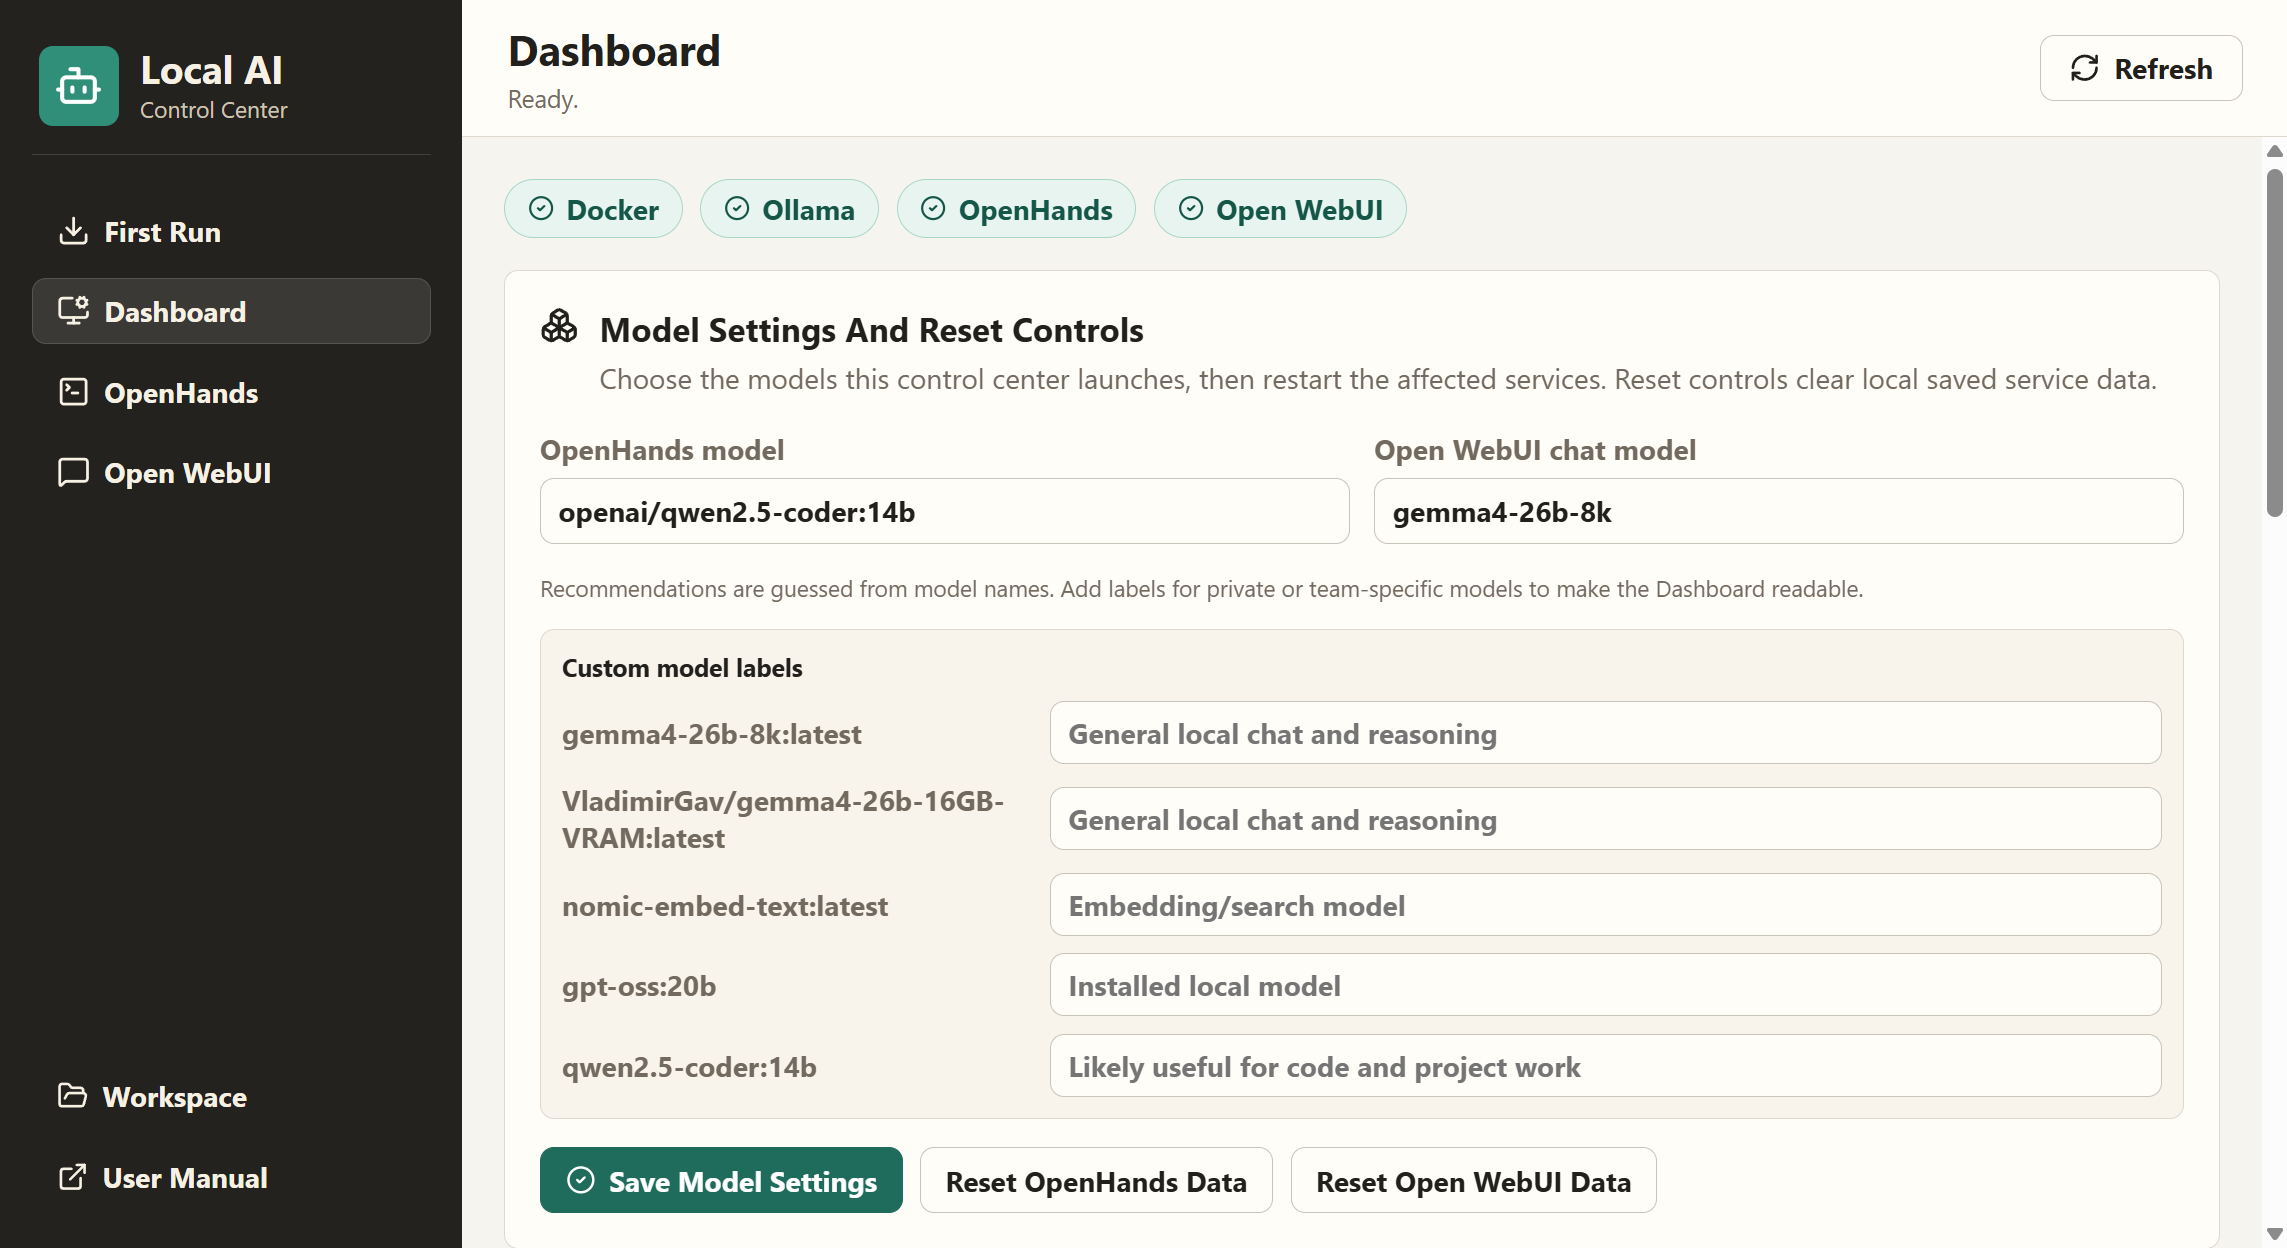
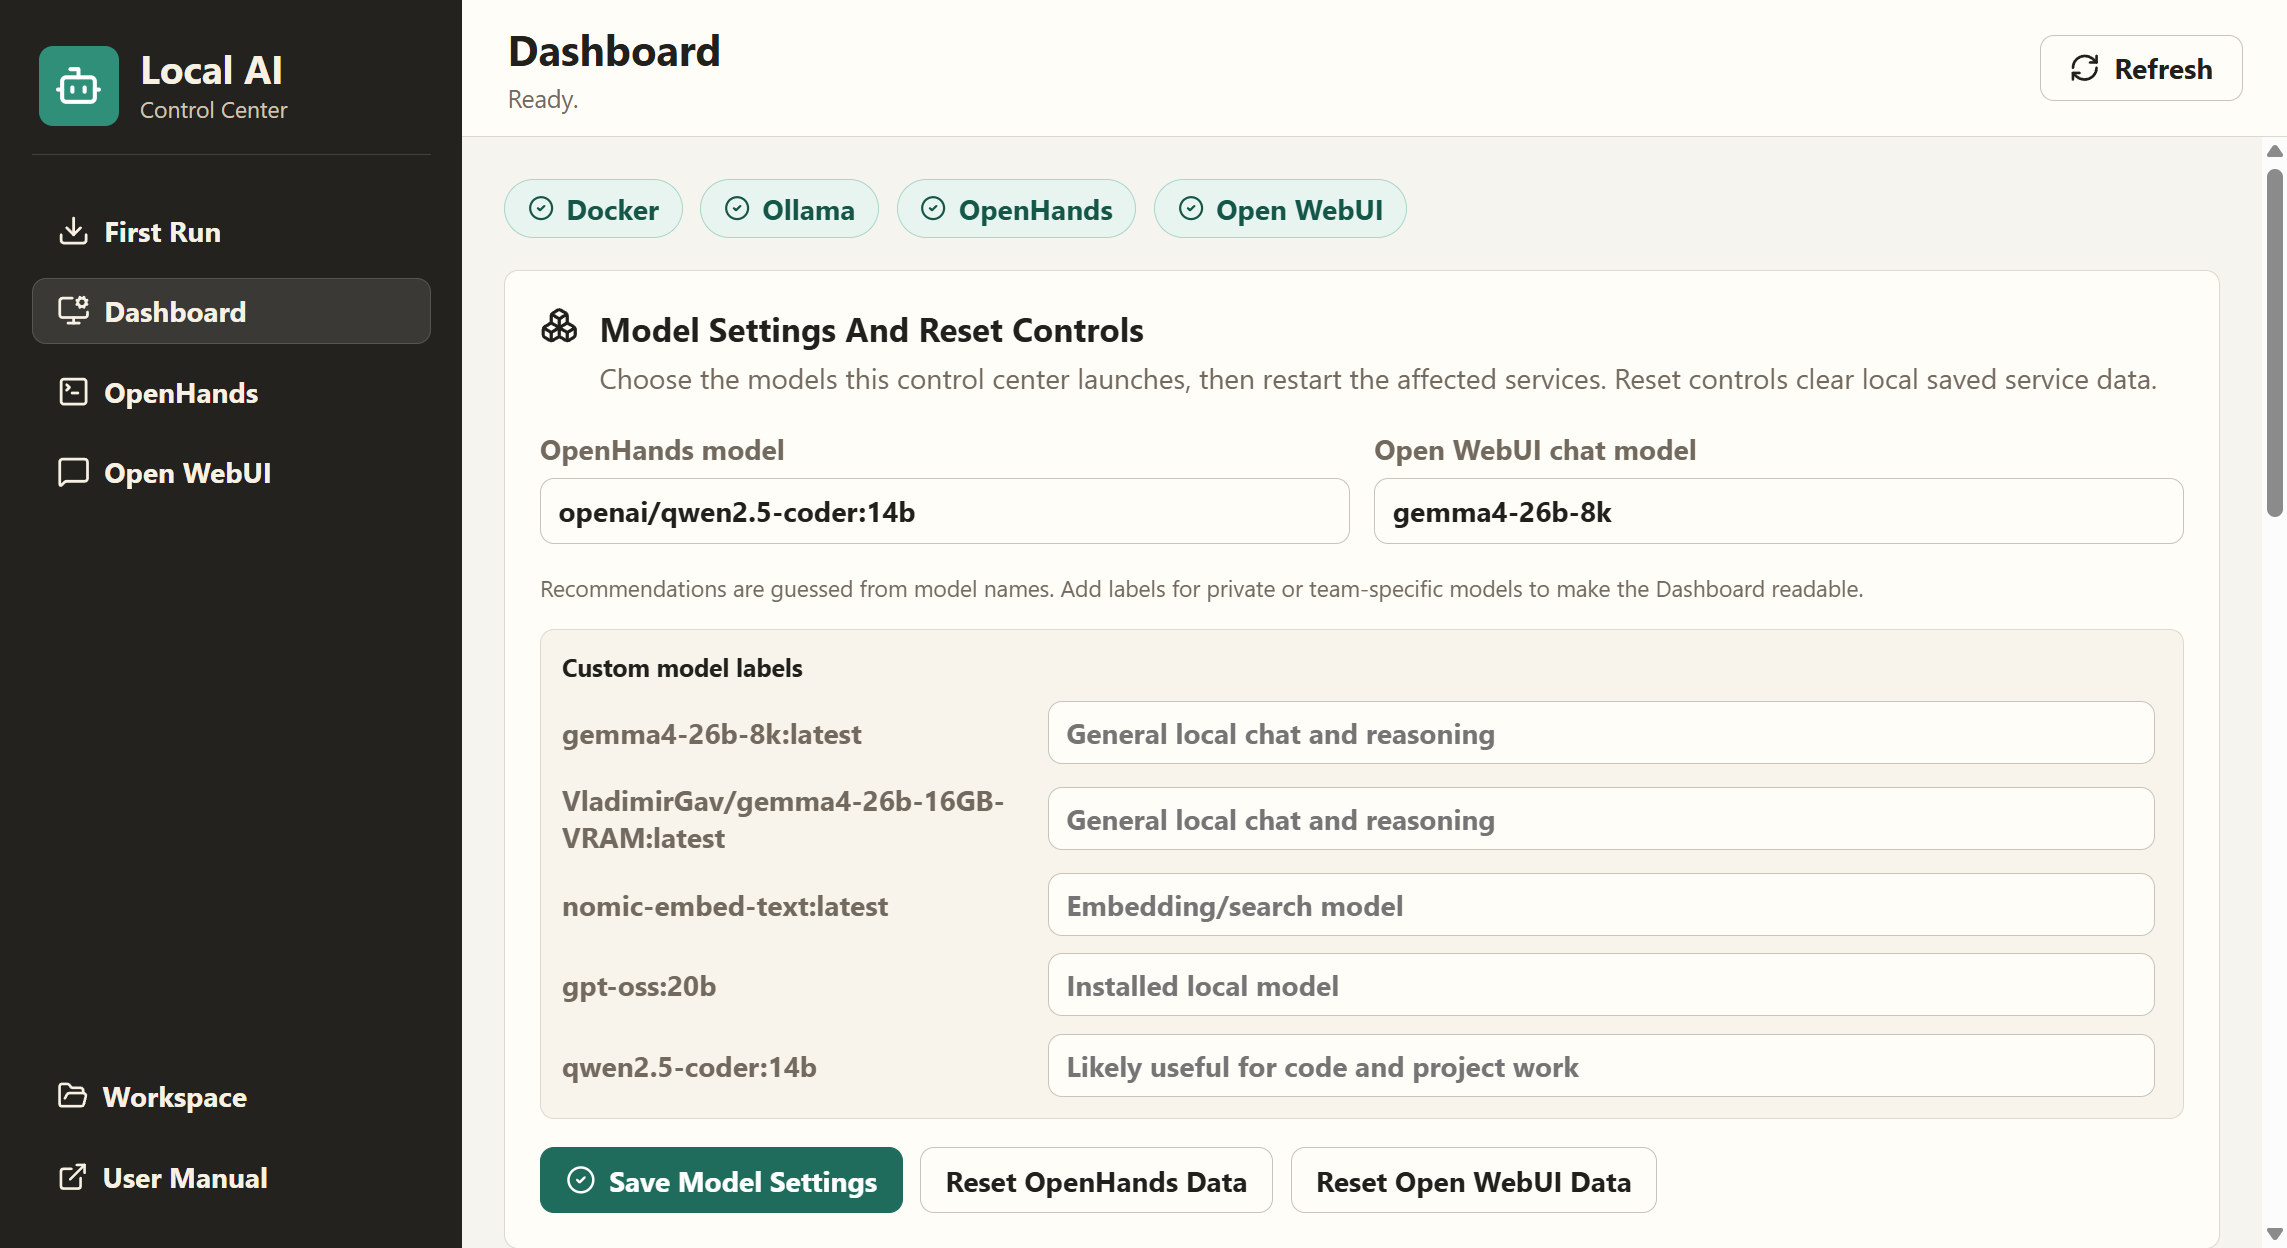
Close v0.5 review follow-ups

diff --git a/electron/main.ts b/electron/main.ts
@@ -2,6 +2,7 @@ import { app, BrowserWindow, ipcMain, shell } from "electron";
 import path from "node:path";
 import { existsSync } from "node:fs";
 import fs from "node:fs/promises";
+import { defaultConfig, mergeConfigUpdate, parseConfig, type LocalAIConfig } from "./config-logic";
 import {
   occupiedPortResult,
   portCheckFailure,
@@ -45,16 +46,8 @@ const workspaceDir = path.join(appRoot, "agent-workspace");
 const openHandsUrl = "http://localhost:3000";
 const openWebUiUrl = "http://localhost:8080";
 const ollamaApiUrl = "http://127.0.0.1:11434";
-const defaultConfig = {
-  openHandsModel: "openai/qwen2.5-coder:14b",
-  openWebUiChatModel: "gemma4-26b-8k",
-  openWebUiImage: "ghcr.io/open-webui/open-webui:v0.9.5",
-  modelLabels: {} as Record<string, string>
-};
 const openHandsImage = "docker.openhands.dev/openhands/openhands:1.7";
 const setupStateVersion = 1;
-
-type LocalAIConfig = typeof defaultConfig;
 
 function configPath() {
   return path.join(app.getPath("userData"), "config.json");
@@ -62,19 +55,7 @@ function configPath() {
 
 async function readConfig(): Promise<LocalAIConfig> {
   try {
-    const parsed = JSON.parse(await fs.readFile(configPath(), "utf8")) as Partial<LocalAIConfig>;
-    const stringConfig = Object.fromEntries(
-      Object.entries(parsed).filter((entry): entry is [string, string] => typeof entry[1] === "string" && entry[1].trim().length > 0)
-    );
-    const modelLabels =
-      parsed.modelLabels && typeof parsed.modelLabels === "object"
-        ? Object.fromEntries(Object.entries(parsed.modelLabels).filter((entry): entry is [string, string] => typeof entry[1] === "string" && entry[1].trim().length > 0))
-        : {};
-    return {
-      ...defaultConfig,
-      ...stringConfig,
-      modelLabels
-    };
+    return parseConfig(await fs.readFile(configPath(), "utf8"));
   } catch {
     return defaultConfig;
   }
@@ -82,18 +63,7 @@ async function readConfig(): Promise<LocalAIConfig> {
 
 async function writeConfig(update: Partial<LocalAIConfig>): Promise<LocalAIConfig> {
   const current = await readConfig();
-  const stringConfig = Object.fromEntries(
-    Object.entries(update).filter((entry): entry is [string, string] => typeof entry[1] === "string" && entry[1].trim().length > 0)
-  );
-  const modelLabels =
-    update.modelLabels && typeof update.modelLabels === "object"
-      ? Object.fromEntries(Object.entries(update.modelLabels).filter((entry): entry is [string, string] => typeof entry[1] === "string" && entry[1].trim().length > 0))
-      : current.modelLabels;
-  const next = {
-    ...current,
-    ...stringConfig,
-    modelLabels
-  };
+  const next = mergeConfigUpdate(current, update);
   await fs.mkdir(path.dirname(configPath()), { recursive: true });
   await fs.writeFile(configPath(), JSON.stringify(next, null, 2), "utf8");
   return next;

diff --git a/src/App.tsx b/src/App.tsx
@@ -172,6 +172,7 @@ export function App() {
   const [configDraft, setConfigDraft] = useState<LocalAIConfig>(fallbackStatus.config);
   const [restartRequired, setRestartRequired] = useState({ openhands: false, openwebui: false });
   const [pendingReset, setPendingReset] = useState<ResetTarget | null>(null);
+  const [modelLabelsExpanded, setModelLabelsExpanded] = useState(false);
   const refreshingRef = useRef(false);
   const userSelectedViewRef = useRef(false);
 
@@ -367,6 +368,7 @@ export function App() {
   const workInProgress = Boolean(busy && busy !== "refresh");
   const servicesReady = openHandsReady && openWebUiReady;
   const setupComplete = setup.ready && servicesReady;
+  const labelEditorExpanded = models.length <= 6 || modelLabelsExpanded;
 
   return (
     <div className="app-shell">
@@ -646,18 +648,29 @@ export function App() {
               </p>
               {models.length > 0 && (
                 <div className="model-label-editor">
-                  <h4>Custom model labels</h4>
-                  {models.map((model) => (
-                    <label key={model}>
-                      <span>{model}</span>
-                      <input
-                        aria-label={`Label for ${model}`}
-                        value={configDraft.modelLabels[model] ?? ""}
-                        placeholder={describeModel(model)}
-                        onChange={(event) => updateModelLabel(model, event.target.value)}
-                      />
-                    </label>
-                  ))}
+                  <div className="model-label-header">
+                    <h4>Custom model labels</h4>
+                    {models.length > 6 && (
+                      <button type="button" onClick={() => setModelLabelsExpanded((current) => !current)}>
+                        {labelEditorExpanded ? "Hide labels" : `Show labels (${models.length})`}
+                      </button>
+                    )}
+                  </div>
+                  {labelEditorExpanded && (
+                    <div className="model-label-scroll">
+                      {models.map((model) => (
+                        <label key={model}>
+                          <span>{model}</span>
+                          <input
+                            aria-label={`Label for ${model}`}
+                            value={configDraft.modelLabels[model] ?? ""}
+                            placeholder={describeModel(model)}
+                            onChange={(event) => updateModelLabel(model, event.target.value)}
+                          />
+                        </label>
+                      ))}
+                    </div>
+                  )}
                 </div>
               )}
               <div className="button-row">

diff --git a/tests/config-logic.test.ts b/tests/config-logic.test.ts
@@ -1,0 +1,43 @@
+import { describe, expect, it } from "vitest";
+import { defaultConfig, mergeConfigUpdate, parseConfig } from "../electron/config-logic";
+
+describe("persisted app config logic", () => {
+  it("round-trips saved model labels through config parsing", () => {
+    const parsed = parseConfig(
+      JSON.stringify({
+        openHandsModel: "code-model:latest",
+        modelLabels: {
+          "private-model:latest": "Internal research assistant"
+        }
+      })
+    );
+
+    expect(parsed.openHandsModel).toBe("code-model:latest");
+    expect(parsed.openWebUiChatModel).toBe(defaultConfig.openWebUiChatModel);
+    expect(parsed.modelLabels).toEqual({ "private-model:latest": "Internal research assistant" });
+  });
+
+  it("strips blank label values when writing a label update", () => {
+    const next = mergeConfigUpdate(defaultConfig, {
+      modelLabels: {
+        "keep-me:latest": "Useful helper",
+        "clear-me:latest": ""
+      }
+    });
+
+    expect(next.modelLabels).toEqual({ "keep-me:latest": "Useful helper" });
+  });
+
+  it("preserves existing labels when a model-only update is written", () => {
+    const current = {
+      ...defaultConfig,
+      modelLabels: {
+        "private-model:latest": "Internal research assistant"
+      }
+    };
+    const next = mergeConfigUpdate(current, { openWebUiChatModel: "new-chat:latest" });
+
+    expect(next.openWebUiChatModel).toBe("new-chat:latest");
+    expect(next.modelLabels).toEqual(current.modelLabels);
+  });
+});

diff --git a/landing/index.html b/landing/index.html
@@ -41,8 +41,8 @@
             models without managing a pile of terminal commands.
           </p>
           <div class="hero-actions">
-            <a class="button primary" href="https://github.com/scottconverse/local-ai-control-center/releases/tag/v0.5.0">
-              Download v0.5.0
+            <a class="button primary" href="https://github.com/scottconverse/local-ai-control-center/releases/tag/v0.5.1">
+              Download v0.5.1
             </a>
             <a class="button secondary" href="https://github.com/scottconverse/local-ai-control-center">
               View GitHub Repo
@@ -162,7 +162,7 @@
           </p>
         </div>
         <div class="cta-actions">
-          <a class="button primary" href="https://github.com/scottconverse/local-ai-control-center/releases/tag/v0.5.0">
+          <a class="button primary" href="https://github.com/scottconverse/local-ai-control-center/releases/tag/v0.5.1">
             Get the release
           </a>
           <a class="button secondary" href="https://github.com/scottconverse/local-ai-control-center">
@@ -174,7 +174,7 @@
 
     <footer>
       <span>Local AI Control Center</span>
-      <span>Windows-only v0.5.0 - Local services bind to 127.0.0.1</span>
+      <span>Windows-only v0.5.1 - Local services bind to 127.0.0.1</span>
     </footer>
   </body>
 </html>

diff --git a/electron/config-logic.ts b/electron/config-logic.ts
@@ -1,0 +1,43 @@
+export type LocalAIConfig = {
+  openHandsModel: string;
+  openWebUiChatModel: string;
+  openWebUiImage: string;
+  modelLabels: Record<string, string>;
+};
+
+export const defaultConfig: LocalAIConfig = {
+  openHandsModel: "openai/qwen2.5-coder:14b",
+  openWebUiChatModel: "gemma4-26b-8k",
+  openWebUiImage: "ghcr.io/open-webui/open-webui:v0.9.5",
+  modelLabels: {}
+};
+
+function cleanStringEntries(value: unknown) {
+  if (!value || typeof value !== "object") {
+    return {};
+  }
+  return Object.fromEntries(
+    Object.entries(value).filter((entry): entry is [string, string] => typeof entry[1] === "string" && entry[1].trim().length > 0)
+  );
+}
+
+export function parseConfig(raw: string, fallback: LocalAIConfig = defaultConfig): LocalAIConfig {
+  try {
+    const parsed = JSON.parse(raw) as Partial<LocalAIConfig>;
+    return {
+      ...fallback,
+      ...cleanStringEntries(parsed),
+      modelLabels: cleanStringEntries(parsed.modelLabels)
+    };
+  } catch {
+    return fallback;
+  }
+}
+
+export function mergeConfigUpdate(current: LocalAIConfig, update: Partial<LocalAIConfig>): LocalAIConfig {
+  return {
+    ...current,
+    ...cleanStringEntries(update),
+    modelLabels: update.modelLabels ? cleanStringEntries(update.modelLabels) : current.modelLabels
+  };
+}

diff --git a/tests/status.test.ts b/tests/status.test.ts
@@ -39,7 +39,7 @@ describe("service launcher scripts", () => {
 
   it("tracks the current release version", () => {
     const packageJson = JSON.parse(read("package.json")) as { version: string };
-    expect(packageJson.version).toBe("0.5.0");
+    expect(packageJson.version).toBe("0.5.1");
   });
 
   it("uses relative production assets so the packaged app is not blank", () => {
@@ -262,6 +262,8 @@ describe("service launcher scripts", () => {
     expect(app).toContain("Model Settings And Reset Controls");
     expect(app).toContain("Custom model labels");
     expect(app).toContain("Recommendations are guessed from model names");
+    expect(app).toContain("Show labels");
+    expect(app).toContain("model-label-scroll");
     expect(preload).toContain("updateConfig");
     expect(preload).toContain("resetServiceData");
     expect(openHandsScript).toContain("$openHandsModel");
@@ -282,6 +284,7 @@ describe("service launcher scripts", () => {
     expect(landing).not.toContain("Next hardening pass");
     expect(readme).toContain("Editable labels and model-name recommendations");
     expect(manual).toContain("label installed local models");
+    expect(manual).toContain("Custom model labels disappeared");
     expect(developer).toContain("npm run screenshots:packaged");
   });
 

diff --git a/tests/app.test.tsx b/tests/app.test.tsx
@@ -192,6 +192,30 @@ describe("App first-run behavior", () => {
     root.unmount();
   });
 
+  it("collapses the custom label editor for large model libraries", async () => {
+    const manyModels = Array.from({ length: 8 }, (_, index) => `private-model-${index}:latest`);
+    window.localAI.getStatus = vi.fn().mockResolvedValue({
+      ...readyStatus,
+      ollama: { ...readyStatus.ollama, modelNames: manyModels },
+      config: { ...readyStatus.config, modelLabels: {} }
+    });
+    const { container, root } = renderApp();
+    await mount(root);
+
+    await act(async () => {
+      clickButton(container, "Dashboard");
+    });
+    expect(container.textContent).toContain("Show labels (8)");
+    expect(container.querySelector('input[aria-label="Label for private-model-0:latest"]')).toBeNull();
+
+    await act(async () => {
+      clickButton(container, "Show labels");
+    });
+    expect(container.querySelector('input[aria-label="Label for private-model-0:latest"]')).toBeTruthy();
+
+    root.unmount();
+  });
+
   it("does not reset service data when the in-app confirmation is cancelled", async () => {
     const { container, root } = renderApp();
     await mount(root);

diff --git a/src/styles.css b/src/styles.css
@@ -599,12 +599,31 @@ dd {
   border: 1px solid #ded8ce;
 }
 
-.model-label-editor h4 {
+.model-label-header {
+  display: flex;
+  align-items: center;
+  justify-content: space-between;
+  gap: 12px;
+}
+
+.model-label-header h4 {
   margin: 0;
   font-size: 14px;
 }
 
-.model-label-editor label {
+.model-label-header button {
+  min-height: 32px;
+}
+
+.model-label-scroll {
+  display: grid;
+  gap: 10px;
+  max-height: 280px;
+  overflow: auto;
+  padding-right: 4px;
+}
+
+.model-label-scroll label {
   display: grid;
   grid-template-columns: minmax(170px, 0.42fr) minmax(0, 1fr);
   gap: 12px;
@@ -613,7 +632,7 @@ dd {
   font-weight: 750;
 }
 
-.model-label-editor input {
+.model-label-scroll input {
   min-height: 36px;
   border: 1px solid #c9c4ba;
   border-radius: 8px;

diff --git a/USER_MANUAL.md b/USER_MANUAL.md
@@ -251,6 +251,7 @@ Use it when:
 | Ollama is not reachable | Start Ollama and confirm it is listening on port `11434` |
 | App cannot find its scripts after a non-standard install | Set `LOCAL_AI_APP_ROOT` to the app root directory and restart the app |
 | App closed during a model or image pull | Reopen the app and run the pull step again to confirm whether the background download completed |
+| Custom model labels disappeared | Labels are stored in the app's Windows user data folder. They are not part of the portable `.exe` and will not transfer to a new machine or Windows profile automatically |
 | OpenHands says it is starting | Wait a minute after first launch; Docker may still be starting the container |
 | Open WebUI says it is starting | Wait for the container health check to finish |
 | Models feel slow | Check `nvidia-smi` and stop unused Ollama models |

diff --git a/CHANGELOG.md b/CHANGELOG.md
@@ -1,5 +1,11 @@
 # Changelog
 
+## 0.5.1 - 2026-05-14
+
+- Added focused config-logic tests for custom model-label parsing, blank-label cleanup, and label preservation during model-only saves.
+- Collapsed the custom model-label editor for large Ollama libraries and added a scroll-bounded expanded state.
+- Documented where custom model labels are stored when troubleshooting missing labels after moving machines or profiles.
+
 ## 0.5.0 - 2026-05-14
 
 - Added editable model labels so private or uncommon Ollama model names can have user-friendly Dashboard descriptions.
